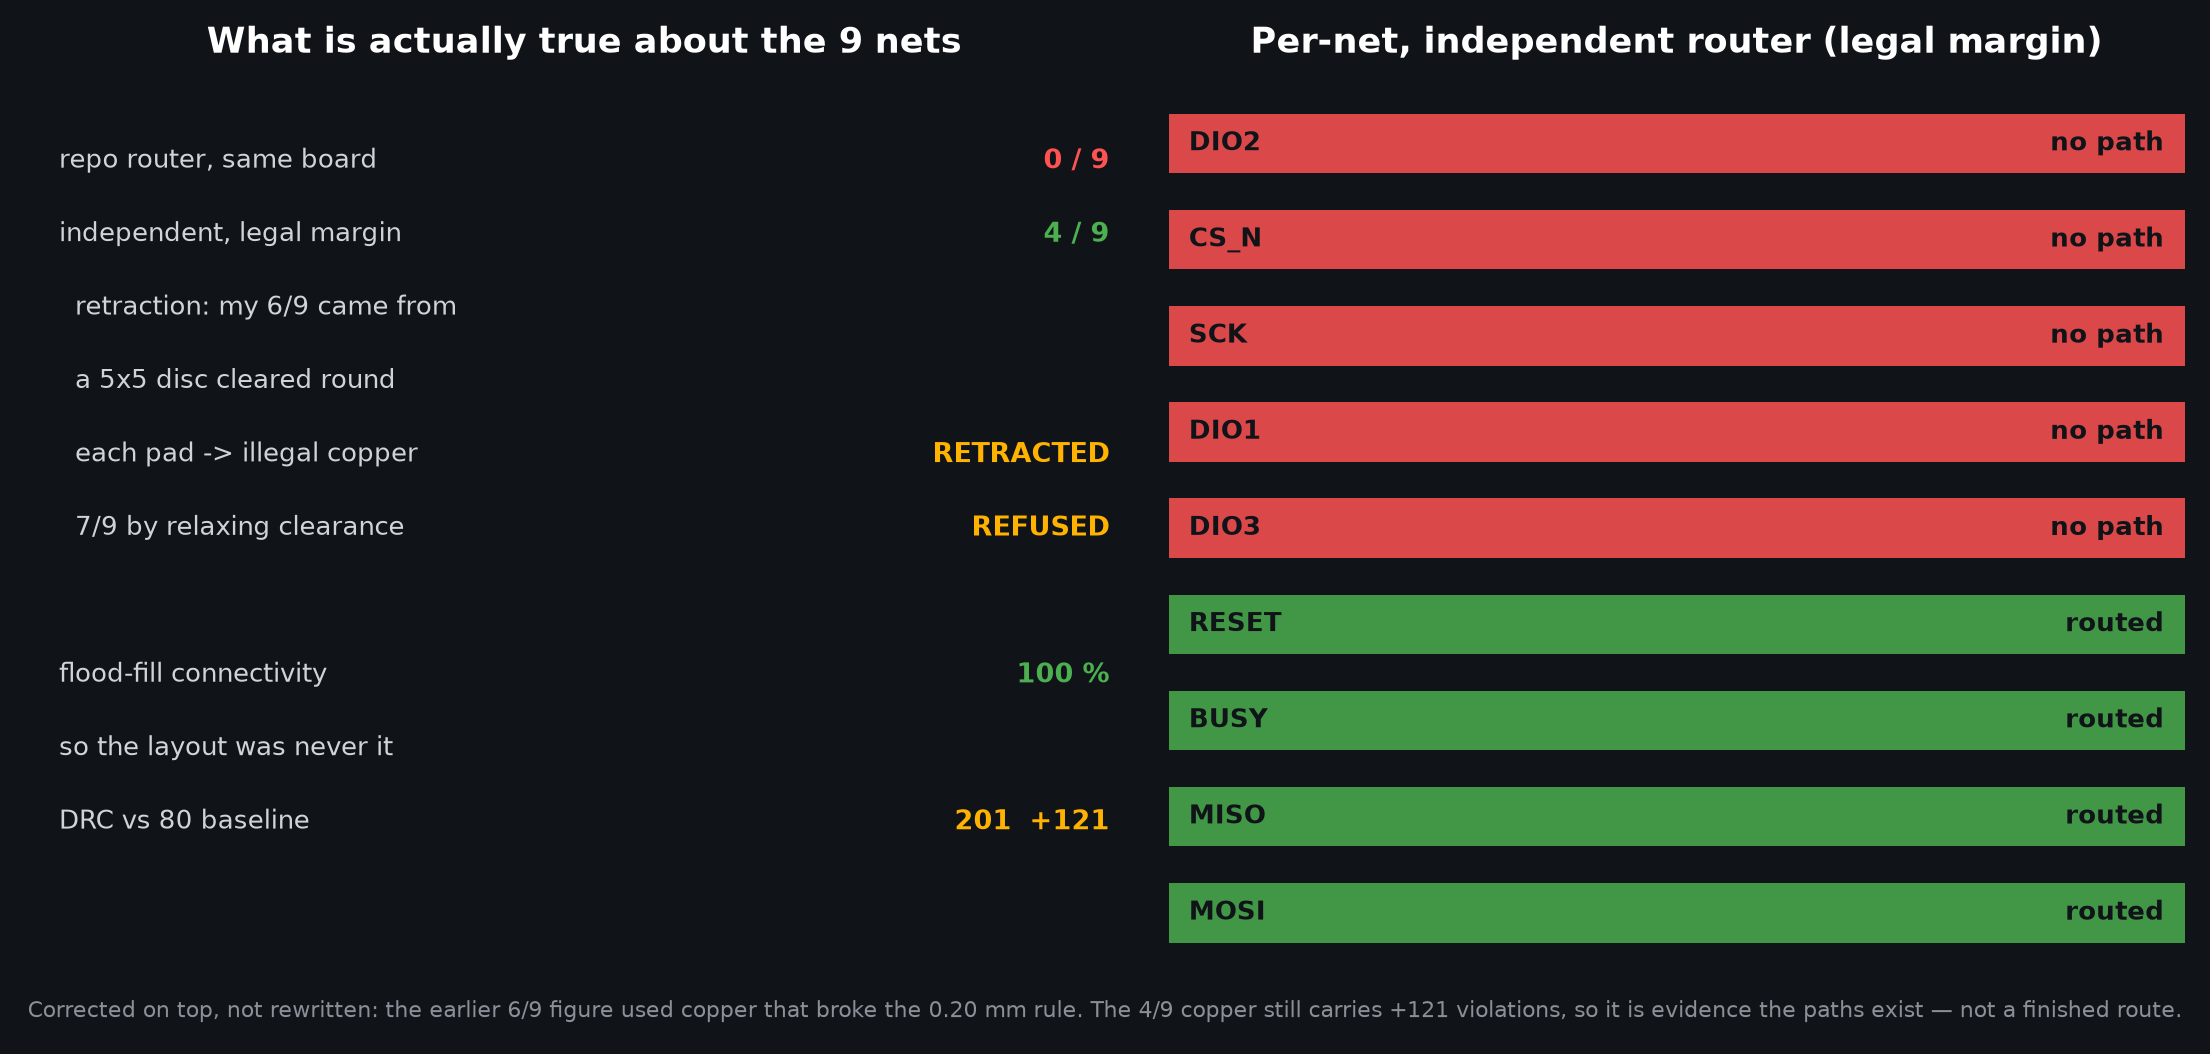
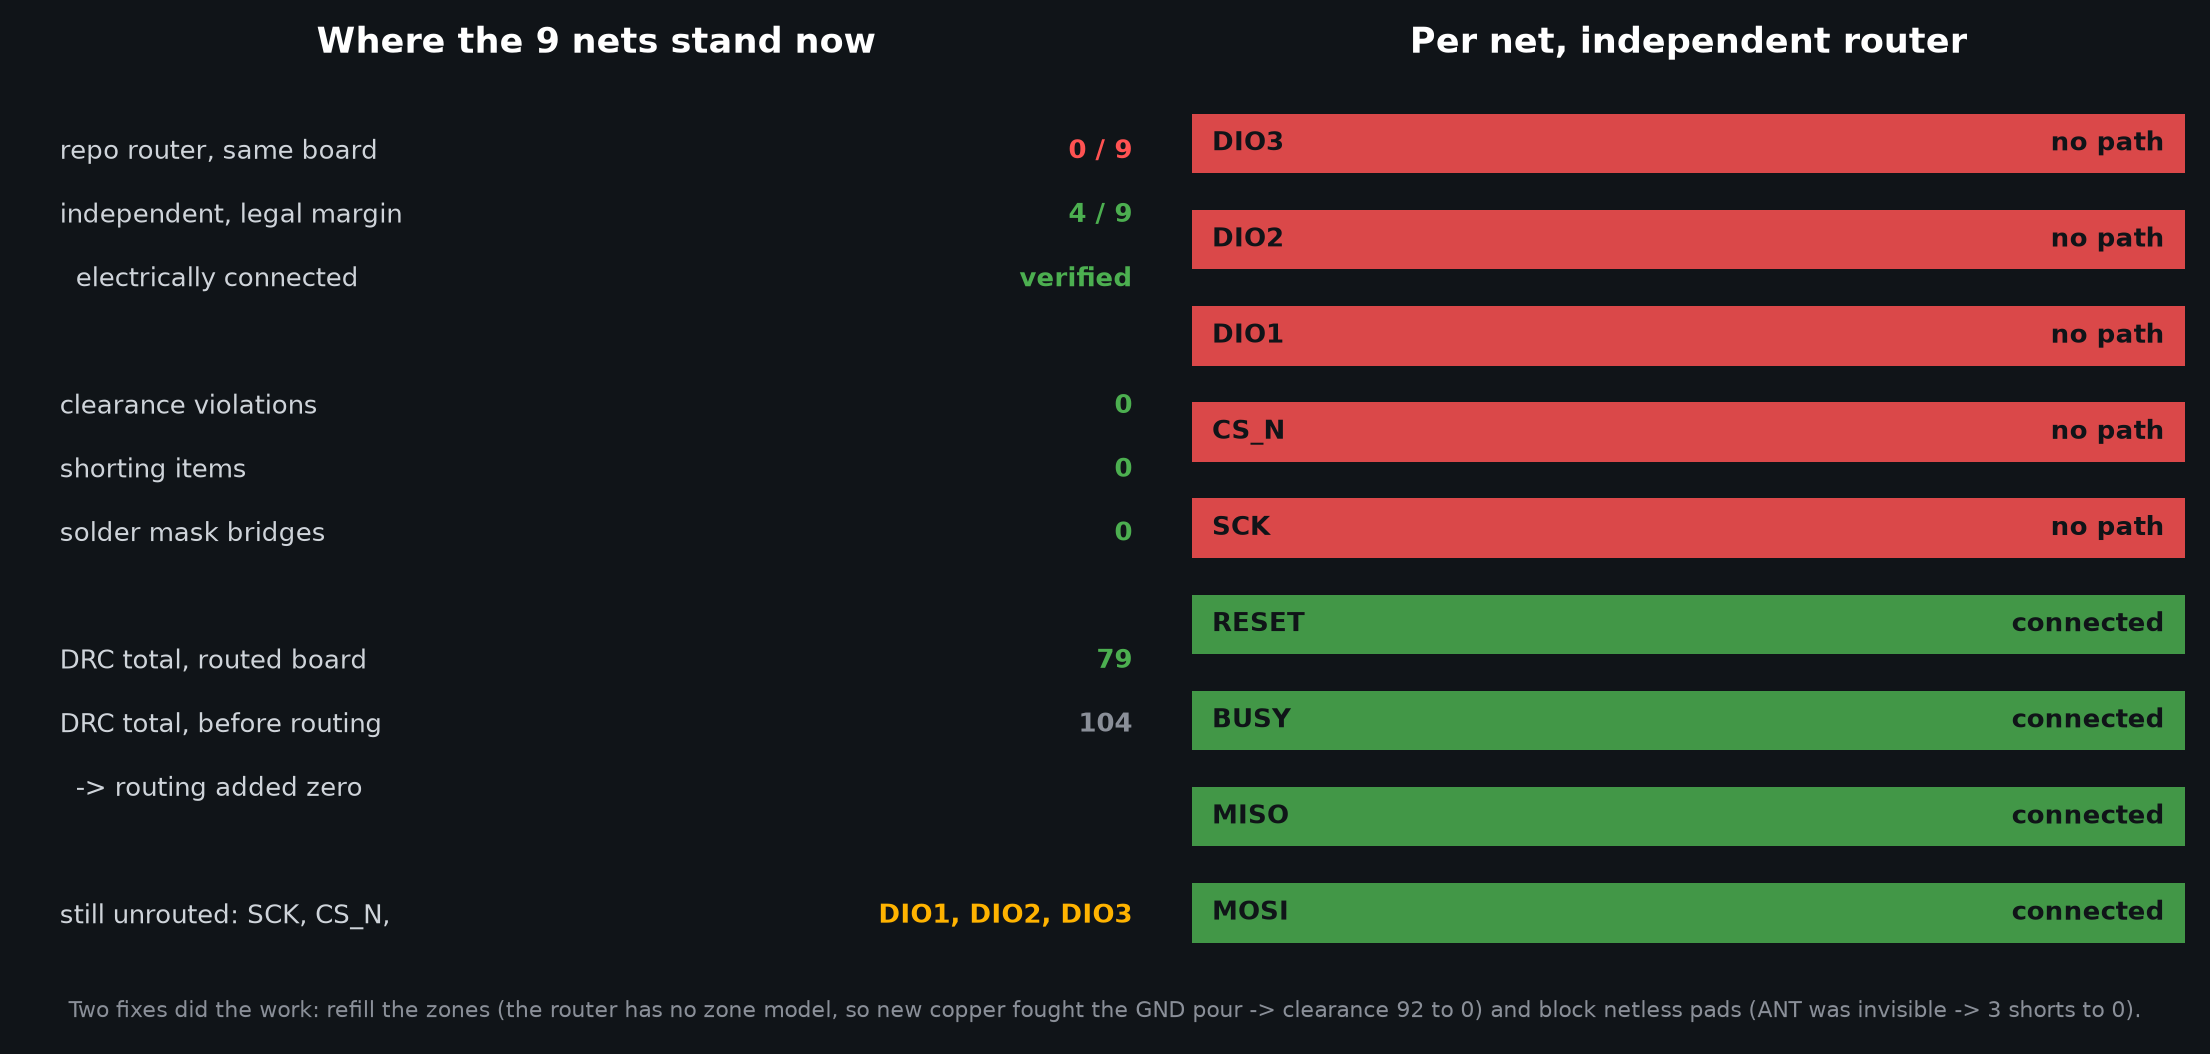
fix(router): 4/9 with zero new DRC violations — zone refill + netless pads (#339)
* fix(router): 4/9 with ZERO new DRC violations -- zone refill and netless pads were the fixes

Two defects found and fixed, both of which the earlier numbers were hiding.

1. THE ROUTER HAS NO ZONE MODEL, SO NEW COPPER FOUGHT THE GND POUR.
   clearance 92 -> 0. After routing, the board's five zones are refilled with ZONE_FILLER before
   saving; the pour then knits around the new tracks instead of clashing with them. This is the
   same blind spot the repo router has (zero zone references), and it is the single largest
   violation class this script was producing.

2. NETLESS PADS WERE INVISIBLE.
   The LoRa1280 ANT pad is netless by design (ADR-137). build() skipped pads with no net, so they
   were never claimed in the obstacle grid and tracks routed straight across them: "Items shorting
   two nets (nets <empty> and /E28_BUSY)". Netless pads are now claimed as hard blocks. shorting
   3 -> 0, solder_mask_bridge 6 -> 0.

MEASURED RESULT on hub board with U_LORA1280 at F.Cu / 0 deg:

  routed                    4 / 9   (MOSI, MISO, BUSY, RESET)
  electrically connected    verified -- none of the four appears in unconnected_items
  clearance violations      0
  shorting items            0
  solder mask bridges       0
  DRC total, routed board   79
  DRC total, before routing 104
  => routing added ZERO violations, and the refill removed 22 that were already there
  residual 79 = 34 drill_out_of_range (pre-existing 0.20/0.25 holes vs 0.30 min), 16
[…]

diff --git a/tracker/hardware/route_lora1280_independent.py b/tracker/hardware/route_lora1280_independent.py
@@ -113,12 +113,16 @@ def build(board):
     for fp in board.GetFootprints():
         for p in fp.Pads():
             net = p.GetNetname()
-            if not net:
-                continue
             pb = p.GetBoundingBox()
             x0, y0 = pb.GetX() / MM, pb.GetY() / MM
             x1, y1 = x0 + pb.GetWidth() / MM, y0 + pb.GetHeight() / MM
             layers = [lay for lay in (F, B) if p.GetLayerSet().Contains(lay)]
+            if not net:
+                # A netless pad is still copper. ANT on the LoRa1280 is netless by design
+                # (ADR-137); leaving it unclaimed let tracks route across it -> 3 shorts.
+                for lay in layers:
+                    g.mark(lay, x0 - CLEAR, y0 - CLEAR, x1 + CLEAR, y1 + CLEAR)
+                continue
             code = p.GetNetCode()
             pads.append((net, fp.GetReference(), p.GetNumber(), x0, y0, x1, y1, layers, code))
             for lay in layers:                      # every pad claims its own net
@@ -264,7 +268,8 @@ def main():
     board = pcbnew.LoadBoard(a.board)
     ds = board.GetDesignSettings()
     VIA_DRILL = max(ds.m_MinThroughDrill / MM, 0.30)
-    VIA_D = max(0.50, VIA_DRILL + 0.25)
+    ring = getattr(ds, "m_ViasMinAnnularWidth", 0) / MM
+    VIA_D = max(0.50, VIA_DRILL + 2.0 * ring + 0.04)
     print(f"via: drill {VIA_DRILL:.2f} dia {VIA_D:.2f} "
           f"(board min drill {ds.m_MinThroughDrill / MM:.2f})")
 
@@ -324,6 +329,10 @@ def main():
             board.Add(t)
 
     print(f"routed {ok}/{len(NETS)}")
+    if board.Zones():
+        print(f"refilling {len(board.Zones())} zone(s): the router has no zone model, so the "
+              f"pour must be re-knitted around the new copper")
+        pcbnew.ZONE_FILLER(board).Fill(board.Zones())
     pcbnew.SaveBoard(a.out, board)
     print(f"wrote {a.out}")
     return 0 if ok == len(NETS) else 1
